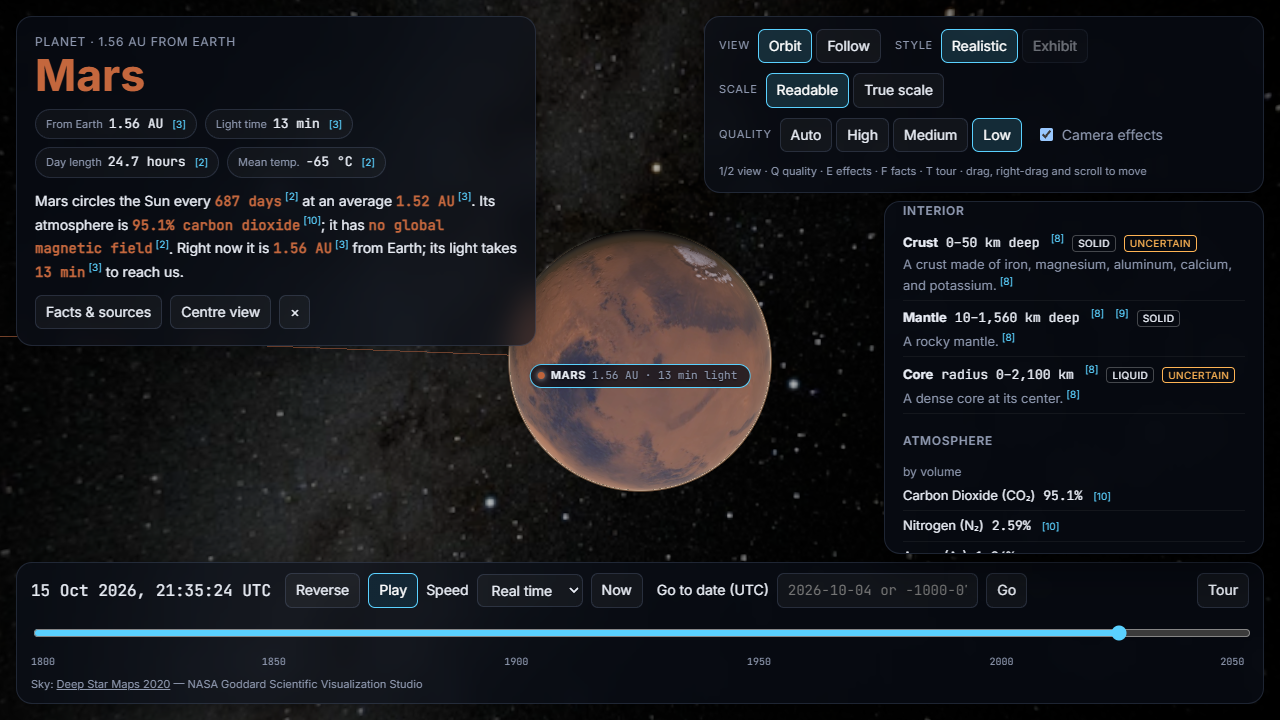
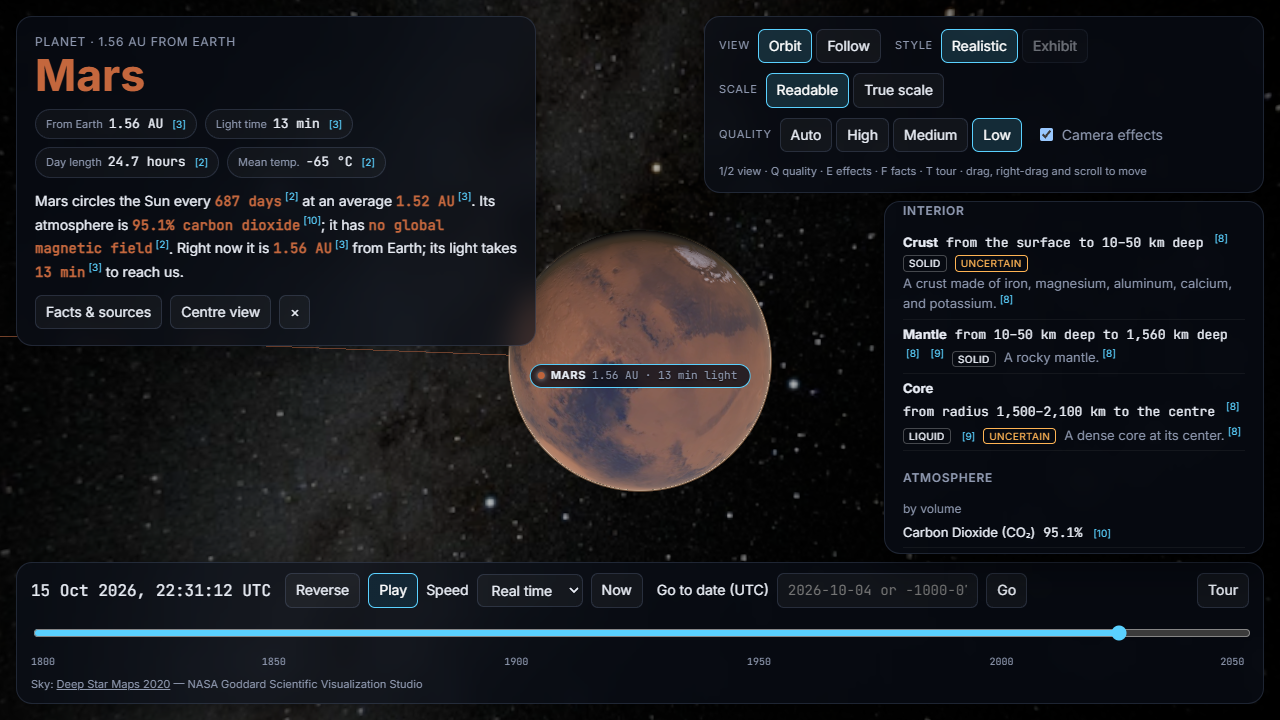
docs: M2b.1 fix wave notes, mission counts, carry-over, retaken Mars Interior and new Sun Interior screenshots

diff --git a/Space_visualizer/Plans/2026-10-05-m2a1-carry-over.md b/Space_visualizer/Plans/2026-10-05-m2a1-carry-over.md
@@ -154,7 +154,7 @@ These are minor findings from the per-task reviews, deferred for the whole-branc
 Minor findings from the per-task reviews of Tasks 5 to 9, summarised from the execution ledger. Plan: [[2026-10-10-m2b1-body-details]]. The two marked "flag" were raised for the whole-branch review. The ones about code I re-read on 2026-10-16 (the missing mean-radius warning, no fetch timeout, the source order) are still open.
 - **Curated interiors (Task 5):**
   - Earth's crust is "about 30 km on land"; the oceanic crust (about 5 km) is in a separate sentence and is not a range;
-  - Mars' core state "liquid" has no stored quote, and Venus' crust (40 km mean, 65 km maximum) is unused, because a crust-only stack cannot be represented;
+  - Mars' core state "liquid" had no stored quote (**done in the M2b.1 fix wave:** it now cites the InSight page); Venus' crust (40 km mean, 65 km maximum) is unused, because a crust-only stack cannot be represented;
   - any number right after a "(km)" label counts as km (a year in a table cell would); the Sun's boundary tolerance of 3,478 km is lenient.
 - **Missions (Task 6):**
   - the README example error "arrival 1965-07-14 not in any quote" names a date that is in its quote (it only shows the format);
@@ -163,16 +163,24 @@ Minor findings from the per-task reviews of Tasks 5 to 9, summarised from the ex
 - **Build (Task 7):**
   - `buildDetails` swallows a mean-radius parse failure silently before falling back (add a warning);
   - Mercury's atmosphere has no gases (an exosphere note only), and the UI handles the empty list;
-  - the earthfact page is two sources (`nssdca-earth` curated and `nssdca-earth-fact-sheet`); `run.ts` never removes stale details files; a data run refreshes `retrievedAt` on existing sources.
+  - the earthfact page was two sources (**done in the M2b.1 fix wave:** a curated source for an already registered page is aliased, so each page is listed once); `run.ts` never removes stale details files; a data run refreshes `retrievedAt` on existing sources.
 - **Store (Task 8):**
   - a non-JSON 200 or a network error gives a bare message ("Failed to fetch") that does not name the body;
   - missing tests: retry while loading, retry from missing, HTTP 500, a non-JSON 200, a hook rerender across bodies, an undefined id, StrictMode; the "keyed by id" test is weak (two keys in one map);
   - a fetch has no timeout, so a hung request stays in `loading`.
 - **Drawer and header (Task 9):**
-  - flag, shown precision: Mercury's dipole 0.002 renders as "0.00200 G·R³", and uncertainties render as "± 1000.0" beside "3,000 ppm";
-  - flag, wording: the header says "tilted 0°" for Mercury and Saturn, where "aligned with its spin axis" reads better;
+  - **done in the M2b.1 fix wave:** flag, shown precision: Mercury's dipole 0.002 renders as "0.00200 G·R³", and uncertainties render as "± 1000.0" beside "3,000 ppm";
+  - **done in the M2b.1 fix wave:** flag, wording: the header says "tilted 0°" for Mercury and Saturn, where "aligned with its spin axis" reads better;
   - `detailsSourceOrder` differs from the display order for the magnetic field (reference radius before surface field), missions (stored order, not launch order) and features (total before rows), which only affects the order of the Sources list;
-  - Mars' interior shows one end of each stored range, so the crust "0–50 km deep" and the mantle "10–1,560 km deep" overlap without explanation;
+  - **done in the M2b.1 fix wave:** Mars' interior showed one end of each stored range, so the crust "0–50 km deep" and the mantle "10–1,560 km deep" overlap without explanation;
   - the narrative adds "%" without checking the gas unit, and gas-name casing differs between the list and the narrative.
+- **Deferred from the M2b.1 whole-branch review (for M2b.2 and later):**
+  - **Apollo 8** orbited the Moon, not Earth; it was removed from Earth's missions and belongs with the Moon in M2b.2 (source `nasa-mission-apollo-8`, page https://www.nasa.gov/mission/apollo-8/, quote "crew Frank Borman, James Lovell Jr., William Anders Launch Dec. 21, 1968 SPLASHDOWN Dec. 27, 1968").
+  - **Moon narrative:** `narrative.ts` writes the average distance as `sma.toFixed(2)} AU`, so the Moon (about 0.0026 AU) would read "0.00 AU"; use a unit that fits (for example km) in M2b.2.
+  - **Akatsuki:** its end of operations in 2024 is unverified against an official page.
+  - **Dropped fact-sheet qualifiers:** "varies with pressure", "~" and "(IAU convention)" are lost in the parsed values.
+  - **Header citation scroll:** a header citation's scroll target can move once the details load (the details sections are inserted above the Sources list).
+  - **Mission counts:** after removing Apollo 8 the data holds 43 mission entries covering 39 distinct missions (the Voyagers and a few others repeat across bodies); earlier notes said "44 missions".
+  - **Stated decimals:** the parser keeps numbers, not their written decimals, so Jupiter's dipole strength reads "4.3" where the sheet writes "4.30" (nothing is invented); recording the raw text would print it exactly.
 - **End-to-end (Task 10):** done. "cites the official imagery for Earth" was a timing race in the test, not a combined-run flake: it pressed **F** right after `goto`, but F does nothing until the URL target is selected, which lands with the canvas (about 1 failure in 5 under `--repeat-each=5 --workers=4`). The test and the new details tests now wait for the canvas first.
 

diff --git a/Space_visualizer/Architecture/pipeline.md b/Space_visualizer/Architecture/pipeline.md
@@ -52,8 +52,8 @@ Built in [[2026-10-10-m2b1-body-details]] from spec [[2026-10-10-m2b1-body-detai
 1. **Fetch** (with the same cache fallback as every source): the eight NSSDCA per-planet fact sheets and the Sun sheet, three Gazetteer zips (`pipeline/raw/gazetteer-<TARGET>.zip`, Mercury, Venus and Mars, about 12 MB together) and every curated page (`pipeline/raw/ref-<sourceId>.html`).
 2. **Parse the sheets** (`pipeline/sources/nssdcPlanetSheet.ts`): atmosphere composition (major gases in percent, minor in ppm, notes), the dipole magnetosphere block, the Sun's photosphere composition and field note, and the volumetric mean radius. Superscripts become Unicode (10⁶), subscripts stay ASCII (CO2). A reworded strength or radius line throws; other reworded dipole lines become null (a known gap).
 3. **Gazetteer** (`pipeline/lib/zip.ts`, `pipeline/lib/dbf.ts`, `pipeline/sources/gazetteer.ts`): reads the zip and `.dbf` in the repo (Node `zlib`, no dependency), keeps approved features, takes the 200 with the largest diameter, rounds coordinates to 1e-4 degrees and diameters to 1e-3 km, and records the total approved count and the cut-off diameter. Only Mercury, Venus and Mars have features; the other bodies have `features: null`.
-4. **Curated references** (`pipeline/reference/interiors.json`, `missions.json`, described in `pipeline/reference/README.md`): checked by `pipeline/sources/quotedReference.ts`. A source must be on an official host (nasa.gov, usgs.gov, esa.int, jaxa.jp, isro.gov.in, cnsa.gov.cn, subdomains included). Each value has a quote of at least 6 words that must appear on the fetched page; km, percent and day-level dates must appear in the quote (a number after a "(km)" table label counts as km; each interior bound may carry its own `from`). Quotes are dropped from the output. Interiors cover the Sun, Mercury, Earth and Mars only (the other five are `null`: no official numeric source); missions.json holds 44 missions from 46 sources and a discovery entry for every body except Earth and the Sun. Mission dates keep the source page's own time-zone convention.
-5. **Build** (`buildDetails`): the radius R used for interior conversion and checks is the NSSDCA sheet's mean radius (the Sun keeps `facts.meanRadiusKm`). Depth becomes R minus depth, percent becomes R times p over 100. A body with no parsed field falls back to the facts table's "no global field". Only sources a details file references are added; an id collision with an existing source fails the build.
+4. **Curated references** (`pipeline/reference/interiors.json`, `missions.json`, described in `pipeline/reference/README.md`): checked by `pipeline/sources/quotedReference.ts`. A source must be on an official host (nasa.gov, usgs.gov, esa.int, jaxa.jp, isro.gov.in, cnsa.gov.cn, subdomains included). Each value has a quote of at least 6 words that must appear on the fetched page; km, percent and day-level dates must appear in the quote (a number after a "(km)" table label counts as km; each interior bound may carry its own `from`). Quotes are dropped from the output. Interiors cover the Sun, Mercury, Earth and Mars only (the other five are `null`: no official numeric source); missions.json holds 43 mission entries (39 distinct missions) and a discovery entry for every body except Earth and the Sun. Mission dates keep the source page's own time-zone convention.
+5. **Build** (`buildDetails`): the radius R used for interior conversion and checks is the NSSDCA sheet's mean radius (the Sun keeps `facts.meanRadiusKm`). Depth becomes R minus depth, percent becomes R times p over 100. Each converted bound keeps `from` (the form its source used) and, for depth and percent, `stated` (the source's own numbers), which is what the drawer prints; the stored radii are for the M2b.3 cutaway. A layer may carry `stateSource` (a quoted sentence), written as `stateSourceId`. A curated source whose URL is already registered (in the catalogue or as a fact sheet) is aliased to the registered id, so each page is listed once; missions are sorted by launch date, then name. The Gazetteer source record links the web page (`https://planetarynames.wr.usgs.gov/Page/<TARGET>/target`); the zip is only fetched. A body with no parsed field falls back to the facts table's "no global field". Only sources a details file references are added; an id collision with an existing source fails the build.
 6. **Validate** (`validateDetails`, `checkDetails` from core) and write. Any error leaves `public/data` untouched.
 
 **Checks (`src/core/details/checks.ts`):** interior layers run outside in with no gaps or overlaps (the boundary tolerance is max(40 km, 0.5 % of R)); major gases sum to at most 100.5 % and minor gases stay below 10⁶ ppm; at most 200 features, none above the approved total, with latitude in [-90, 90], longitude in [0, 360) and diameter above 0; mission dates are real and in order; dipole strength above 0, tilt in [0, 180] and offset in [0, 1]; every `sourceId` resolves.

diff --git a/Space_visualizer/Architecture/ui.md b/Space_visualizer/Architecture/ui.md
@@ -16,7 +16,7 @@ Back to [[Home]] · [[Overview]] · Built in [[2026-10-07-m2a3-interface-and-tou
 - **`liveStats`** (`liveStats.ts`): distances from the Sun and Earth and light time (exact SI speed of light) with the source that backs them. `format.ts` holds the number formatters.
 - **ControlPanel:** View (Orbit, Follow), Style (Realistic; Exhibit is disabled until M2c), Scale (Readable, True scale), Quality (Auto, High, Medium, Low) and the Camera effects checkbox, plus a key hint. It publishes `--control-panel-bottom`. On phones it collapses behind a "Controls" button and opens as a dropdown that is topmost and opaque.
 - **FactsDrawer** (`role="complementary"` named "Body information"): description, physical and orbital facts, live values, accuracy lines, Imagery (every layer cited; procedural visuals labelled illustrative; the Venus radar toggle; the notes follow what is on screen, and the header carries a "Radar view · not visible light" tag while the radar shows) and the numbered sources. When closed it is `aria-hidden` and `inert`. Opening it from a header chip scrolls to and highlights that source. On phones it is a bottom sheet between the header and the bottom bar.
-- **DetailsSections** (`DetailsSections.tsx`, M2b.1): drawn in the drawer between Position accuracy and Imagery. Shows "Loading details…" while the store loads, "Details unavailable" with a Retry button on `missing` or `error` (the rest of the drawer, including Sources, still works), and otherwise the sections that have data, each with `id="details-<section>"` and cited with the shared `.cite` links: Interior (layers with depth or radius ranges, state and an uncertain tag), Atmosphere (major gases by volume, minor gases in ppm, a note), Magnetic field (a dipole table, "No global magnetic field", or a note), Key missions (agency, type, outcome, dates), Discovery and Named features (the top 10 by diameter with the Gazetteer total and cut-off). A null part renders no section.
+- **DetailsSections** (`DetailsSections.tsx`, M2b.1): drawn in the drawer between Position accuracy and Imagery. Shows "Loading details…" while the store loads, "Details unavailable" with a Retry button on `missing` or `error` (the rest of the drawer, including Sources, still works), and otherwise the sections that have data, each with `id="details-<section>"` and cited with the shared `.cite` links: Interior (each layer reads outside in, "from <outer bound> to <inner bound>", every bound in the form its source states it: km deep, radius in km, % of the radius, the surface or the centre; the state, cited when a source states it, and an uncertain tag), Atmosphere (major gases by volume, minor gases in ppm, a note), Magnetic field (a dipole table, "No global magnetic field", or a note), Key missions (agency, type, outcome, dates; launch order), Discovery ("Discovered by … on <date>") and Named features (the top 10 by diameter with the Gazetteer total and cut-off). A null part renders no section.
 - **BottomBar:** the UTC date, Reverse, Play/Pause, Speed, Now, "Go to date" (`YYYY-MM-DD[ HH:MM[:SS]]`, years -4712 to 9999, impossible dates rejected), the Tour button ("Tour" / "Stop tour", `aria-pressed`), the 1800-2050 timeline scrubber (`timeline.ts`), a validity status (amber outside 1800-2050, an extrapolation warning outside 3000 BC-AD 3000) and the sky credit. It publishes `--bottom-bar-height`. The compact phone bar is about 157-170 px.
 - **Pill labels** (`src/scene/BodyLabel.tsx`): a dot, the NAME in capitals and a datum (distance, or light time for the selected body), updated at 4 Hz. Each label's accessible name is the body name. `labelLayout.ts` has `resolveOverlaps` (hide the lower priority of two overlapping boxes, 4 px padding) and `labelPriority` (selected, then hovered, then larger pixel radius, ties alphabetical). `useLabelDeclutter` reads label rectangles at 10 Hz and applies it. In the overview this hides Earth behind the Sun's label; hovering or selecting brings a label back.
 - **Status screens:** loading, data error with "Try again", and "3D graphics are not available" when WebGL is missing.

diff --git a/Space_visualizer/Changelog.md b/Space_visualizer/Changelog.md
@@ -97,11 +97,12 @@ Back to [[Home]]
 - **Content:**
   - **Interior:** layers for the Sun, Mercury, Earth and Mars from curated official pages, each with its source sentence checked by the build. The other five planets show none, because no official numeric source exists.
   - **Atmosphere** (all bodies, the Sun's photosphere included) and **magnetic field** (a dipole, "no global field" or a note) parsed from the NSSDCA fact sheets.
-  - **Key missions:** 44 missions from 46 NASA, ESA, JAXA and other official pages, plus a discovery entry for every body except Earth and the Sun.
+  - **Key missions:** 43 mission entries (39 distinct missions: Voyager 1 and 2 and a few others repeat across bodies), in launch order, from official NASA, ESA and JAXA pages, plus a discovery entry for every body except Earth and the Sun. Apollo 8 is not listed under Earth: it orbited the Moon, so it moves to the Moon in M2b.2.
   - **Named features:** the 200 largest approved Gazetteer features for Mercury, Venus and Mars (the drawer shows the top 10 and the total).
 - **Pipeline:** fact-sheet parser, a zip and `.dbf` reader written in the repo (no dependency), the Gazetteer selector, the quoted-reference checks and `buildDetails`; see [[pipeline]]. The sources are [[NSSDCA Planet Fact Sheets]], [[USGS Gazetteer of Planetary Nomenclature]] and [[NASA mission and science pages (curated)]]. `npm run data` now also fetches about 12 MB of Gazetteer zips and the curated pages; `npm run data:offline` rebuilds from the cache.
 - **Citations:** details sources are numbered after the existing ones, so no number shown before the details load ever changes. The header gains a cited details sentence (main gas, field). A moon now reads "orbits <parent>", not "circles the Sun" (carry-over item done).
 - **Failure handling:** a missing or failing details file shows "Details unavailable" with Retry; the rest of the drawer keeps working.
-- **Tests:** 676 unit tests; `e2e/details.spec.ts` (three end-to-end tests: no details request at startup, Mars shows all five cited sections, a blocked file shows the unavailable state). Screenshots in `Assets/m2b1/`.
+- **Tests:** 690 unit tests (after the whole-branch fix wave); `e2e/details.spec.ts` (three end-to-end tests: no details request at startup, Mars shows all five cited sections, a blocked file shows the unavailable state). Screenshots in `Assets/m2b1/`.
+- **Whole-branch review fixes:** the Interior rows show each bound in the form its source states it (for example Mars core "from radius 1,500–2,100 km to the centre", Sun core "from 25 % of the radius to the centre", Earth mantle "from 30 km deep to radius 3,485 km"), never a derived kilometre figure; each bound records its `from` and stated numbers in the data (the stored radii are unchanged for the M2b.3 cutaway); Mars' core state "liquid" now cites the InSight page. Numbers no longer gain digits (Mercury's dipole reads 0.002; ppm uncertainties read "± 1,000"). The header says "aligned with its spin axis" for a 0° tilt; Mercury's Atmosphere shows no column-abundance basis line. Each source page is listed once (four duplicate pairs merged), Gazetteer citations link the web page rather than the zip, Parker Solar Probe, Solar Orbiter, SOHO and Ulysses are typed orbiter as their pages say, and the Discovery line no longer shows the unquoted method.
 - Carry-over: [[2026-10-05-m2a1-carry-over]] ("From M2b.1" lists what was deferred).
 

diff --git a/Space_visualizer/Sessions/2026-10-04-session-m1-to-m2a3.md b/Space_visualizer/Sessions/2026-10-04-session-m1-to-m2a3.md
@@ -72,7 +72,7 @@ This was one long conversation with Claude Code. It produced the design, M1, M2a
 - "continue": the plan was resumed at Task 5, subagent-driven as before (an implementer then a reviewer per task). Tasks 5–10 are done; the whole-branch review and the Execution record are still to come. State: 676 unit tests, typecheck clean.
 - **What was built:**
   - Task 5: curated interiors for the Sun, Mercury, Earth and Mars (`pipeline/reference/interiors.json`), each value with its source sentence.
-  - Task 6: `missions.json`, 44 missions from 46 official pages, with a discovery entry for all bodies except Earth and the Sun.
+  - Task 6: `missions.json`, with a discovery entry for all bodies except Earth and the Sun. At first it held 44 mission entries; after the whole-branch fix wave removed Apollo 8 from Earth it holds 43 mission entries (39 distinct missions: Voyager 1 and 2 and a few others repeat across bodies).
   - Task 7: `buildDetails` and `run.ts` write the nine details files and their new sources; the build fails on any broken rule.
   - Task 8: `detailsStore`, loading on demand with loading, ready, missing and error states and a retry.
   - Task 9: the drawer sections, the appended citations, the cited details sentence in the header, and the moon wording fix.
@@ -88,6 +88,7 @@ This was one long conversation with Claude Code. It produced the design, M1, M2a
   - details sources are appended to the citation order, so numbers never shift when details load.
 - **End-to-end testing:** three tests in `e2e/details.spec.ts`. Two of the brief's assertions needed correcting to match real behaviour, not weakened: the startup check now looks for `/data/solar-system/details/` (the source module `src/core/details/schema.ts` also contains `/details/`), and the Mars check looks for Valles Marineris, because Olympus Mons is not among the 10 largest Mars features shown. The tests wait for the canvas before pressing F: F does nothing until the URL target is selected, which lands with the canvas. This also explained the old "cites the official imagery for Earth" failure, a timing race in that test (fixed the same way), not a combined-run flake.
 - **Screenshots** (Mars Interior and Atmosphere, Jupiter Magnetic field, at 1280x720 and 390x844) are in `Assets/m2b1/`; the layouts read cleanly and every row carries its citation.
+- **Whole-branch review (2026-10-16):** the final review returned "ready with fixes". The main findings were places where the drawer showed numbers no source states (Mars core "radius 0–2,100 km", the Sun's derived kilometre figures, Earth's 2,886 km, "0.00200", "± 1000.0"). The fix wave: each interior bound is shown in the form its source uses (stored as `from` and `stated` on the bound), Mars core's state cites the InSight page, numbers print without invented digits, duplicate source pages merged, Gazetteer citations link the web page, Apollo 8 removed from Earth (it belongs to the Moon, M2b.2), Sun mission types corrected, missions sorted by launch date, and the Discovery method no longer shown. Details are in [[Changelog]] and [[2026-10-05-m2a1-carry-over]].
 - **Open:** deferred minor items are in [[2026-10-05-m2a1-carry-over]] ("From M2b.1"). The user has not yet been asked to push the branch or open the PR.
 
 ## State at the end of the session (2026-10-08)

diff --git a/Space_visualizer/Data Sources/NASA mission and science pages (curated).md b/Space_visualizer/Data Sources/NASA mission and science pages (curated).md
@@ -15,6 +15,8 @@ Back to [[Home]]
 - **Where the values live:** `pipeline/reference/interiors.json` and `pipeline/reference/missions.json`, described in `pipeline/reference/README.md`.
 - **The quote rule:** every curated value records the exact sentence it came from. The build fails if that sentence is not on the fetched page, if it is shorter than 6 words, or if the recorded number (km or percent, or a day-level date) does not appear in the sentence. Quotes are dropped from the output; only the value and its `sourceId` ship.
 - **Conversion:** interior bounds are converted to radii by each bound's effective `from`: radius as is; depth becomes R minus depth; percent becomes R times p over 100. R is the body's cited mean radius (equatorial radius if there is none). Consecutive layers may differ at a boundary by up to max(40 km, 0.5 % of R).
+- **Display:** the drawer prints each bound in the form its source states it (`from` and `stated` in the data), not the converted radius. A layer's state is cited only when a `stateSource` quote exists (Mars core: the InSight page).
+- **Duplicate pages:** a curated source whose URL is already registered is aliased to the registered id when the details are built, so each page appears once in the Sources list.
 - **Verified by:** `verifyInteriors` and `verifyMissions` in `pipeline/sources/quotedReference.ts`.
 - **Licence:** NASA public domain (NASA media usage guidelines); USGS public domain
 - **Accuracy / caveats:** layer boundaries are ranges where the source gives ranges; layers the source hedges are marked uncertain. Mission dates follow the source's own time zone convention.
@@ -47,7 +49,6 @@ Back to [[Home]]
 - Explorer 1 (NASA Science mission page) (NASA Science): https://science.nasa.gov/mission/explorer-1/ (`nasa-mission-explorer-1`)
 - TIROS 1 (NSSDCA Master Catalog) (NASA NSSDCA): https://nssdc.gsfc.nasa.gov/nmc/spacecraft/display.action?id=1960-002B (`nssdca-tiros-1`)
 - Landsat 1 (NASA Science mission page) (NASA Science): https://science.nasa.gov/mission/landsat-1/ (`nasa-mission-landsat-1`)
-- Apollo 8 (NASA Science mission page) (NASA Science): https://www.nasa.gov/mission/apollo-8/ (`nasa-mission-apollo-8`)
 - Landsat 9 (NASA Science mission page) (NASA Science): https://science.nasa.gov/mission/landsat-9/ (`nasa-mission-landsat-9`)
 - All About Mars (NASA Space Place) (NASA Space Place): https://spaceplace.nasa.gov/all-about-mars/en/ (`nasa-spaceplace-mars`)
 - Mariner 4 (NASA Science mission page) (NASA Science): https://science.nasa.gov/mission/mariner-4/ (`nasa-mission-mariner-4`)

diff --git a/pipeline/reference/README.md b/pipeline/reference/README.md
@@ -24,7 +24,7 @@ Each `sources` entry is `{ id, title, publisher, url, license }`. Every `sourceI
 
 ## Layers
 
-`from` says what the numbers mean: `radius` (km from the centre), `depth` (km below the surface) or `percent` (percent of the body's radius, from the centre). Write the outermost layer with `from: 'depth'` and outer depth 0; the build converts depths to radii using the body's cited mean radius. A bound may carry its own `from` (`radius`, `depth` or `percent`) that overrides the layer's for that bound, for example a mantle whose outer bound is a depth and whose inner bound is a core radius; the layer-level `from` is then the outer bound's. Consecutive layers may differ at their shared boundary by up to max(40 km, 0.5% of the body radius). Set `uncertain: true` for layers the source hedges. `composition` is `null` or `{ sourceId, quote, text }`, where the quote is on the page.
+`from` says what the numbers mean: `radius` (km from the centre), `depth` (km below the surface) or `percent` (percent of the body's radius, from the centre). Write the outermost layer with `from: 'depth'` and outer depth 0; the build converts depths to radii using the body's cited mean radius. A bound may carry its own `from` (`radius`, `depth` or `percent`) that overrides the layer's for that bound, for example a mantle whose outer bound is a depth and whose inner bound is a core radius; the layer-level `from` is then the outer bound's. Consecutive layers may differ at their shared boundary by up to max(40 km, 0.5% of the body radius). Set `uncertain: true` for layers the source hedges. `composition` is `null` or `{ sourceId, quote, text }`, where the quote is on the page. A layer may also carry `stateSource` (`{ sourceId, quote }`, a sentence on a registered page that states the layer's state); the state is then shown with that citation, and without it the state is shown uncited. The drawer prints each bound in its own `from` with the numbers as written here, so a layer stated as 25 percent shows "25 %", never a derived kilometre figure.
 
 ## Adding an entry
 

diff --git a/Space_visualizer/Start here.md b/Space_visualizer/Start here.md
@@ -78,5 +78,5 @@ Per-task reviews run on Sonnet and the final whole-branch reviews on Opus, becau
 - **Latest:** see the most recent note in `Sessions/` (currently [[2026-10-04-session-m1-to-m2a3]], which also records M2b.1).
 - **As of 2026-10-16:**
   - PRs #1–#4 are open and stacked (M1 → M2a.1 → M2a.2 → M2a.3), none merged.
-  - **M2b.1** ([[2026-10-10-m2b1-body-details]]) is on branch `m2b1-details` (not pushed). All ten tasks are done (as of 2026-10-16: 676 unit tests, typecheck clean, 76 end-to-end tests). **Next:** the whole-branch review, one fix wave, then push the branch and open the PR stacked on `m2a3-interface` when the user asks. After that, M2b.2 (the Moon).
+  - **M2b.1** ([[2026-10-10-m2b1-body-details]]) is on branch `m2b1-details` (not pushed). All ten tasks are done and the whole-branch review fix wave is applied (as of 2026-10-16: 690 unit tests, typecheck clean, 76 end-to-end tests; the data has 43 mission entries covering 39 distinct missions). **Next:** push the branch and open the PR stacked on `m2a3-interface` when the user asks. After that, M2b.2 (the Moon).
 - **Known gap:** the per-task rulings of M2a.1 and M2a.2 were not preserved, because those ledgers were deleted before rulings were copied into the vault. Their outcomes are in [[Changelog]], [[2026-10-05-m2a1-carry-over]], [[0007-tone-mapping-and-exposure]] and [[render]].

diff --git a/Space_visualizer/Data Sources/USGS Gazetteer of Planetary Nomenclature.md b/Space_visualizer/Data Sources/USGS Gazetteer of Planetary Nomenclature.md
@@ -12,6 +12,7 @@ Back to [[Home]]
 
 - **Publisher:** USGS Astrogeology Science Center, for the IAU Working Group for Planetary System Nomenclature
 - **URL pattern:** `https://asc-planetarynames-data.s3.us-west-2.amazonaws.com/<TARGET>_nomenclature_center_pts.zip` with TARGET MERCURY, VENUS or MARS.
+- **Citation link:** the source record links the web page for the target, `https://planetarynames.wr.usgs.gov/Page/<TARGET>/target`, so a click opens a page instead of downloading the zip. The zip URL above is what the pipeline fetches.
 - **Source ids:** `usgs-gazetteer-mercury`, `usgs-gazetteer-venus`, `usgs-gazetteer-mars`.
 - **Used for:** the named-feature list in the details files: name, type, centre latitude and east longitude, diameter, origin text, approval year, and the total number of approved names.
 - **How it is parsed:** the zip is read with the repo's own reader (`pipeline/lib/zip.ts`, Node `zlib`) and its `.dbf` with `pipeline/lib/dbf.ts`. `selectFeatures` in `pipeline/sources/gazetteer.ts` keeps rows whose approval starts with "Adopted", drops zero or missing diameters, and keeps the 200 largest. `thresholdKm` records the diameter of the smallest kept feature; `totalApproved` is the count of all approved names.
